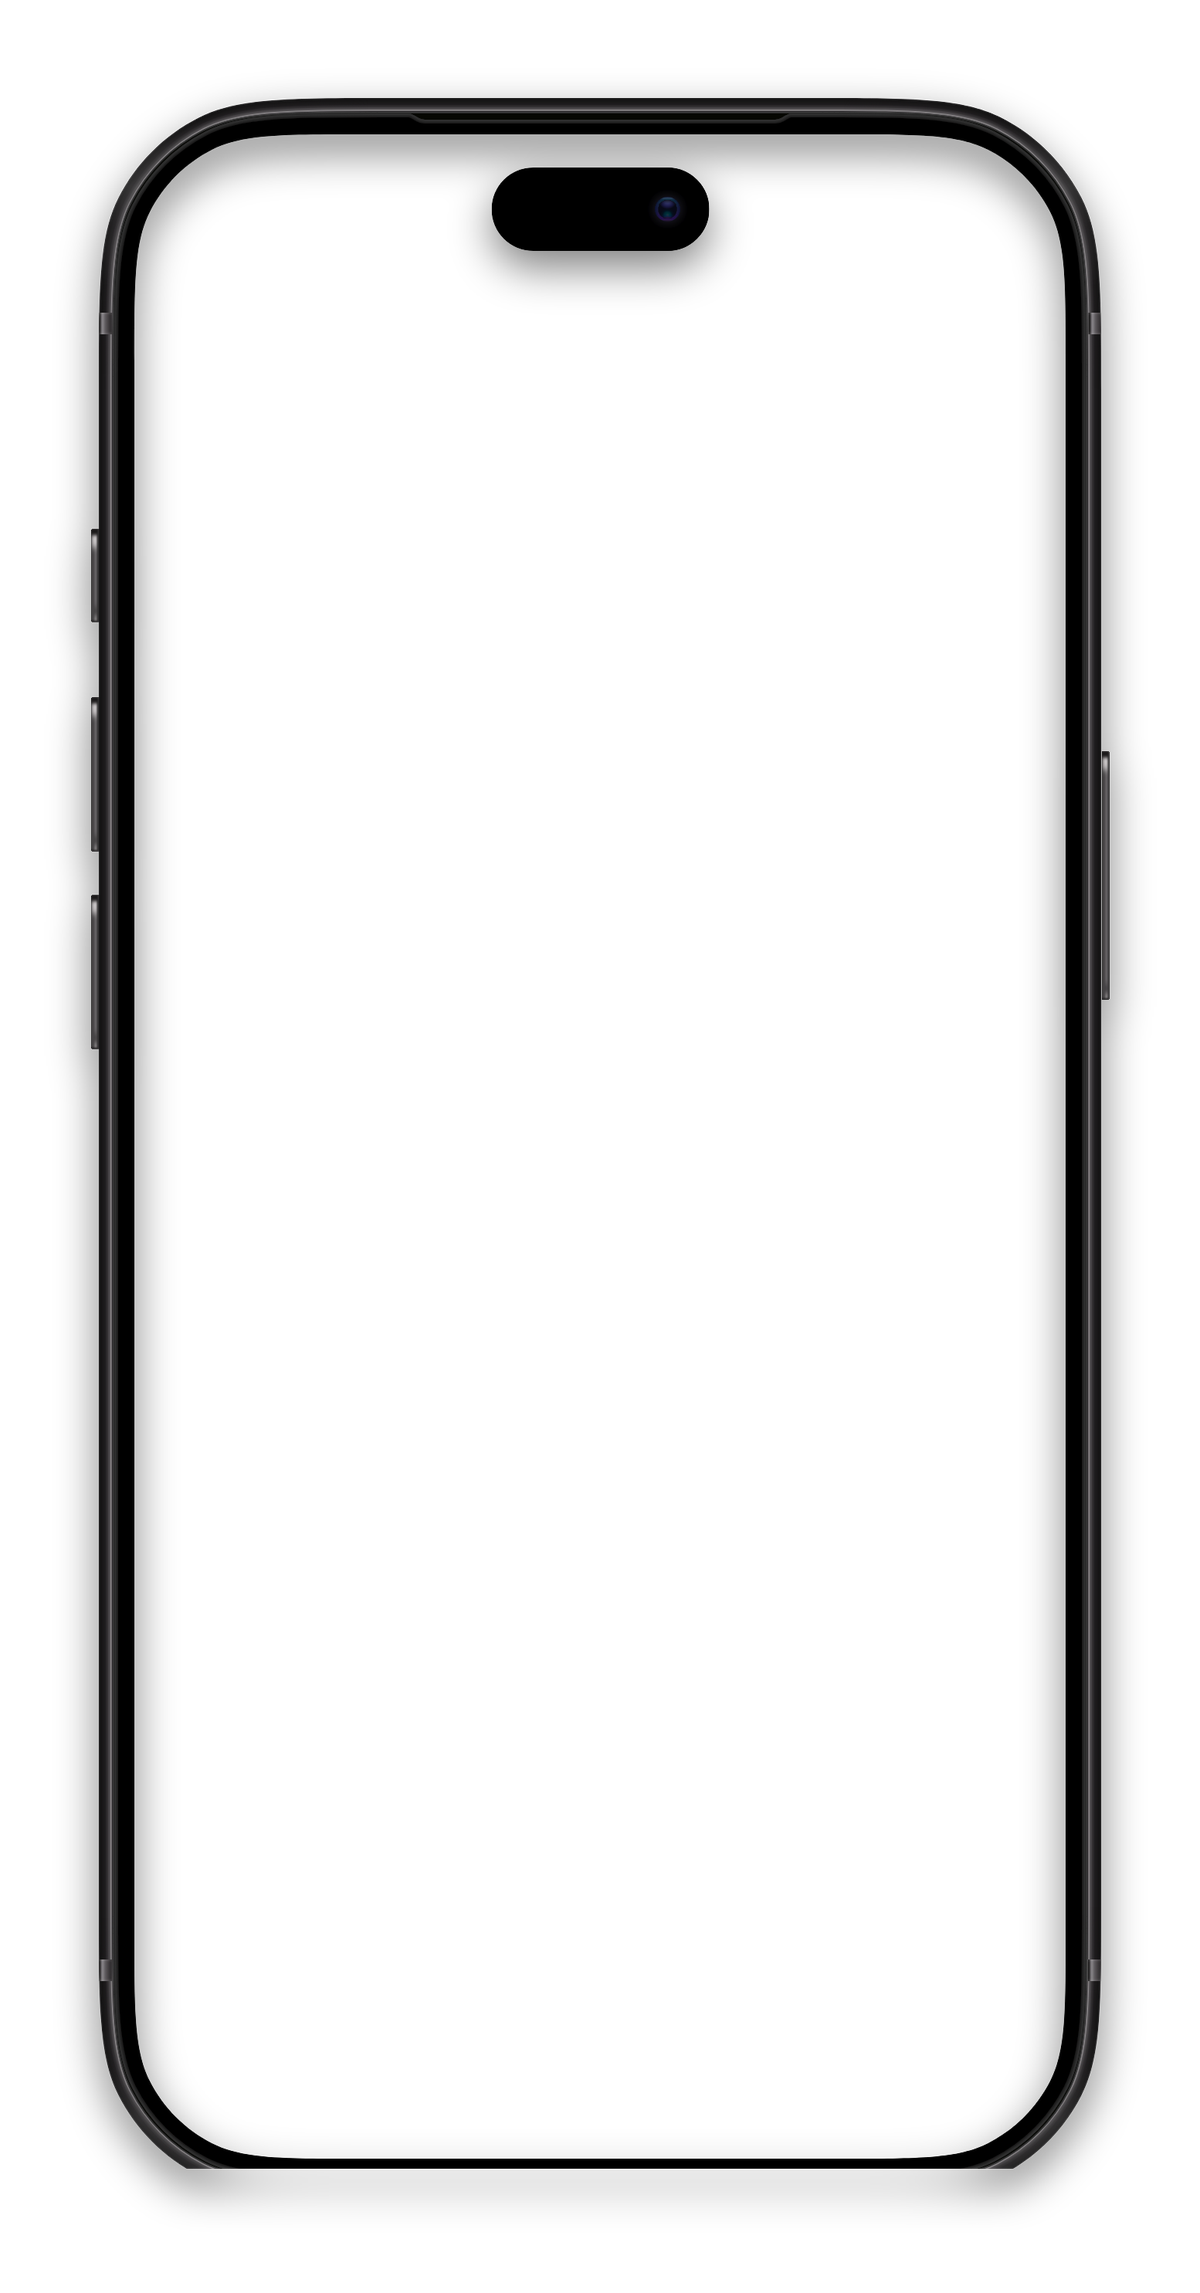
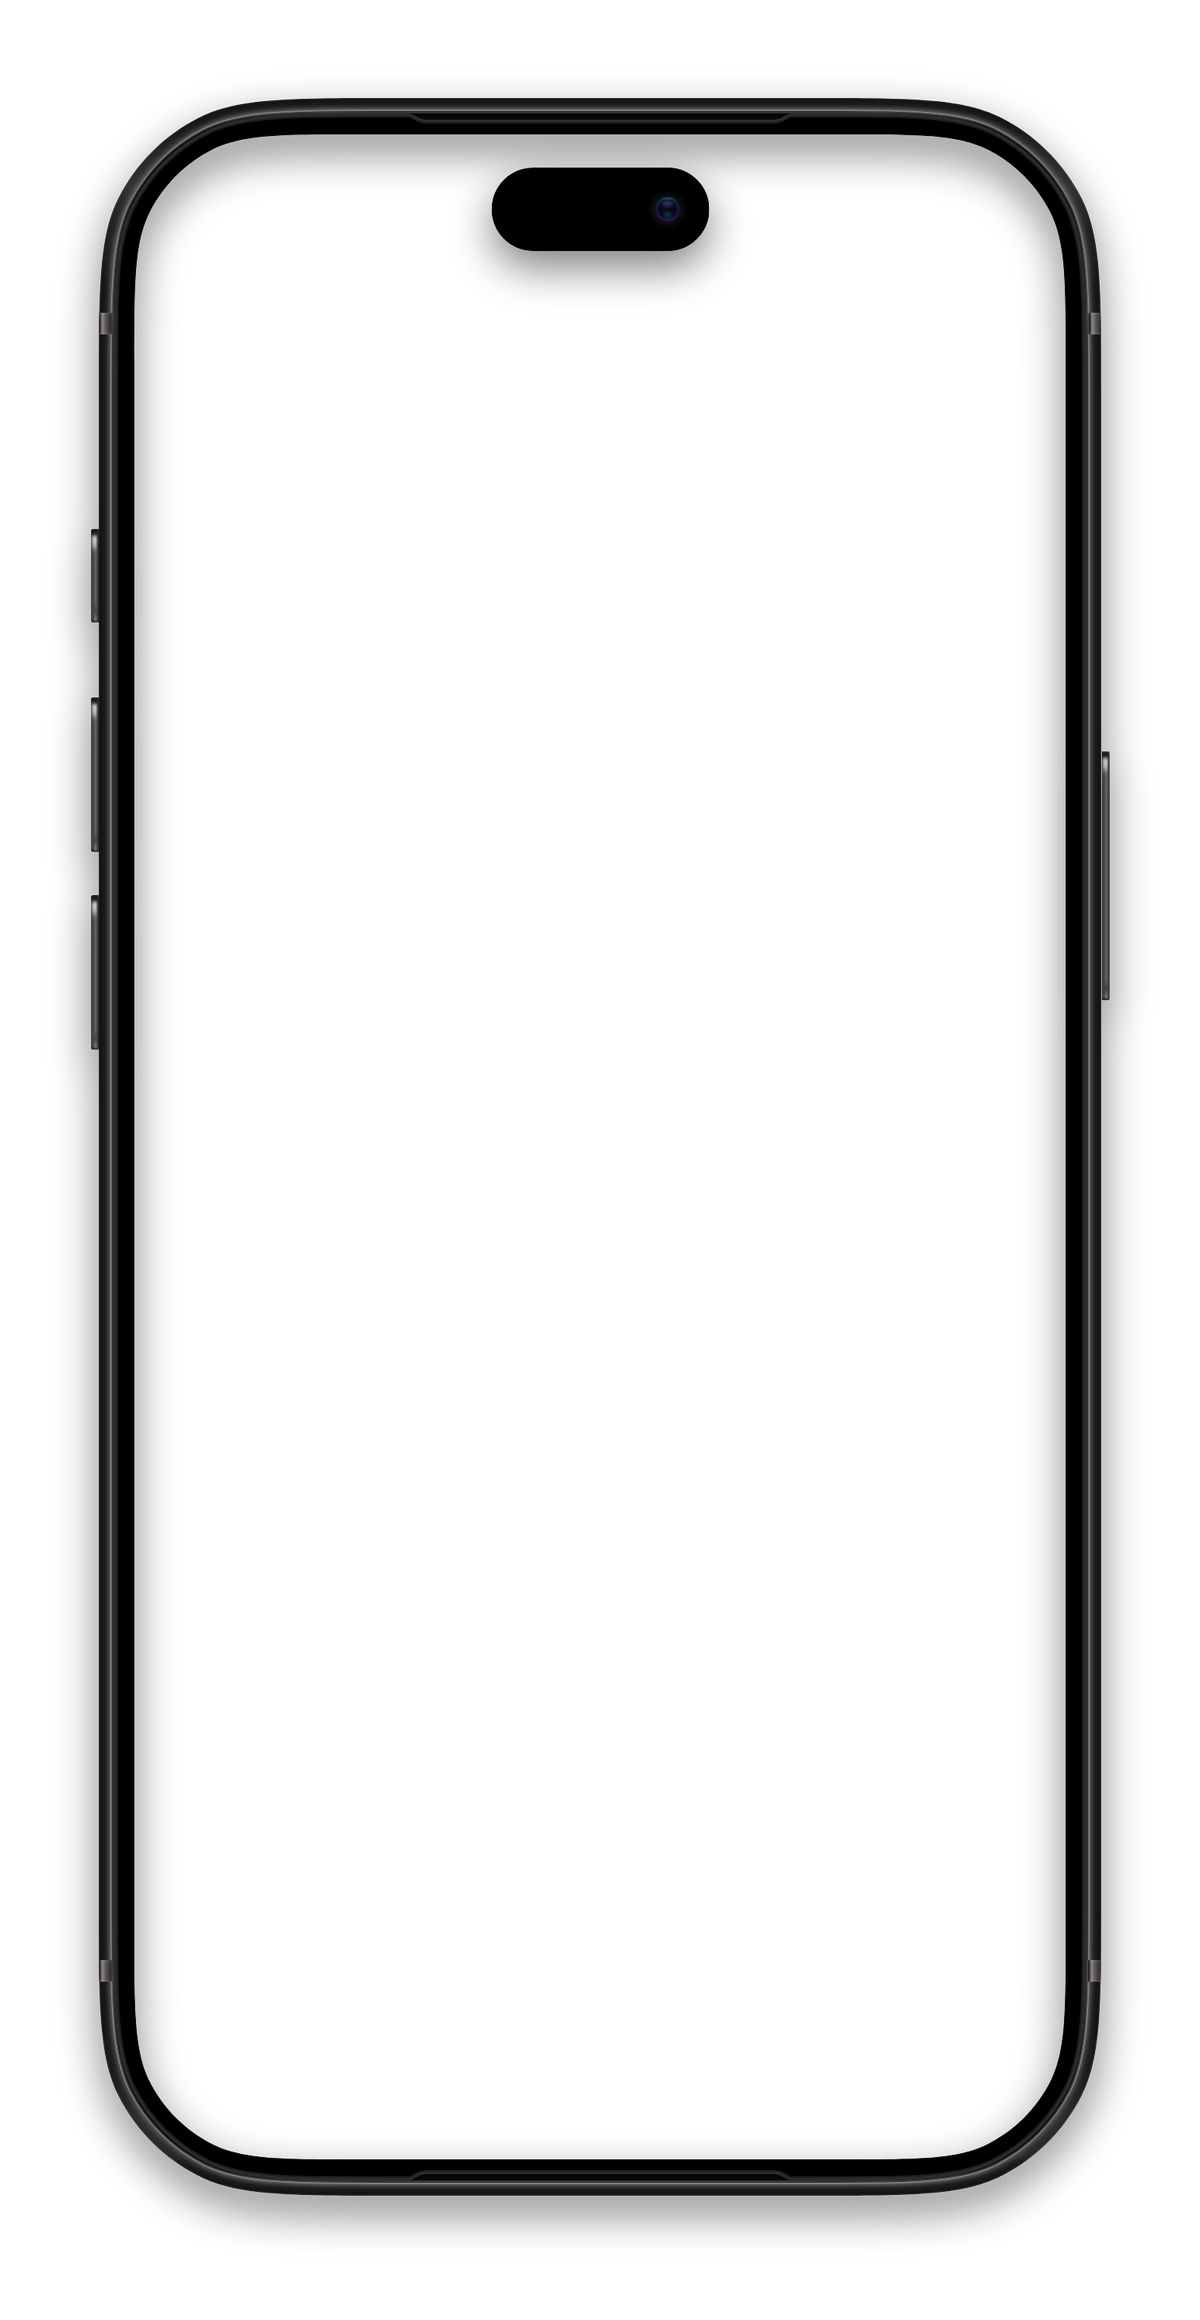
fix(shell): 补齐外壳底部边框，修掉底部被裁断的观感
原稿屏幕开口一直画到机身边缘，底部边框只剩 13 单位（顶部 47、左右 56），
再加屏幕上溢 0.75px，底部几乎看不到边框。

- 把顶部边框镜像接到底部，机身高度 +30~50 单位，上下边框厚度一致
- 10 张外壳 PNG 按新尺寸重新栅格化（含烘焙投影），SHELLS 的 view/body 同步更新
- README 记录该处理，原始 SVG 保持原样

diff --git a/app.js b/app.js
@@ -19,10 +19,13 @@ const FRAME = 11; // 机身每边厚度：2px 金属边框 + 9px 黑色面板
  * view / body / screen 都是 SVG 用户单位（viewBox 内实测）：
  *   body   = 机身外轮廓包围盒
  *   screen = 屏幕开口包围盒（外壳里挖空的那块，壁纸就铺在这里）
- * 选用外壳后，机身、侧键、灵动岛、摄像头全部由矢量图承担，不再程序化绘制。 */
+ * 注意：原稿底部边框只有 13 单位（顶部/左右是 47~56），看上去像被裁断。
+ * 这里把顶部边框镜像接到底部补齐，因此 body 高度比原稿多 30~50 单位，
+ * 上下边框厚度一致；PNG 已按补齐后的尺寸重新栅格化。 */
+
 const SHELLS = {
   ip18p: {
-    view:[1554, 2970], body:[118, 127, 1319, 2682], screen:[174, 174, 1206, 2622],
+    view:[1554, 3004], body:[118, 127, 1319, 2716], screen:[174, 174, 1206, 2622],
     colors:[
       { id:'burgundy', name:'酒红',   dot:'#5e2b35' },
       { id:'glacier',  name:'冰川蓝', dot:'#c8d5e6' },
@@ -31,7 +34,7 @@ const SHELLS = {
     ]
   },
   ip18pm: {
-    view:[1668, 3216], body:[119, 129, 1430, 2926], screen:[174, 174, 1320, 2868],
+    view:[1668, 3248], body:[119, 129, 1430, 2958], screen:[174, 174, 1320, 2868],
     colors:[
       { id:'burgundy', name:'酒红',   dot:'#5e2b35' },
       { id:'glacier',  name:'冰川蓝', dot:'#c8d5e6' },
@@ -40,11 +43,11 @@ const SHELLS = {
     ]
   },
   'ipduo-out': {
-    view:[1746, 2382], body:[97, 118, 1531, 2103], screen:[174, 174, 1398, 2034],
+    view:[1746, 2425], body:[97, 118, 1531, 2146], screen:[174, 174, 1398, 2034],
     colors:[{ id:'starwhite', name:'星光白', dot:'#e8e4dc' }]
   },
   'ipduo-in': {
-    view:[3018, 2226], body:[116, 108, 2794, 1957], screen:[174, 174, 2670, 1878],
+    view:[3018, 2279], body:[116, 108, 2794, 2010], screen:[174, 174, 2670, 1878],
     colors:[{ id:'starwhite', name:'星光白', dot:'#e8e4dc' }]
   }
 };

diff --git a/README.md b/README.md
@@ -66,6 +66,8 @@ scripts/make-assets.sh  重新生成示例视频（可选）
 
 ### 外壳素材出处
 
+> 原稿的底部边框只有 13 单位（顶部 47、左右 56），直接渲染会像被裁断一截。仓库里的 PNG 已把**顶部边框镜像接到底部**补齐，机身高度相应增加 30~50 单位，上下边框厚度一致；原始 SVG 保持原样留在 `src/`。
+
 `assets/shells/` 的机身来自 Figma 社区文件 [iPhone 18 Pro / Max / Duo components (vectors)](https://www.figma.com/community/file/1686422548175302738/iphone-18-pro-max-duo-components-vectors)（作者 James Jingyi，CC BY 4.0），与其 [mockup-device-frames](https://github.com/jamesjingyi/mockup-device-frames) 仓库里的 SVG 同源。仓库保留了两份：`assets/shells/*.png` 是运行时用的 1200px 栅格图（浏览器对超大 PNG 做 2 倍以上下采样时会出现块状伪影，故预先缩到与显示尺寸接近），`assets/shells/src/*.svg` 是原始矢量，方便日后重新导出更高分辨率。
 
 ## 浏览器支持
